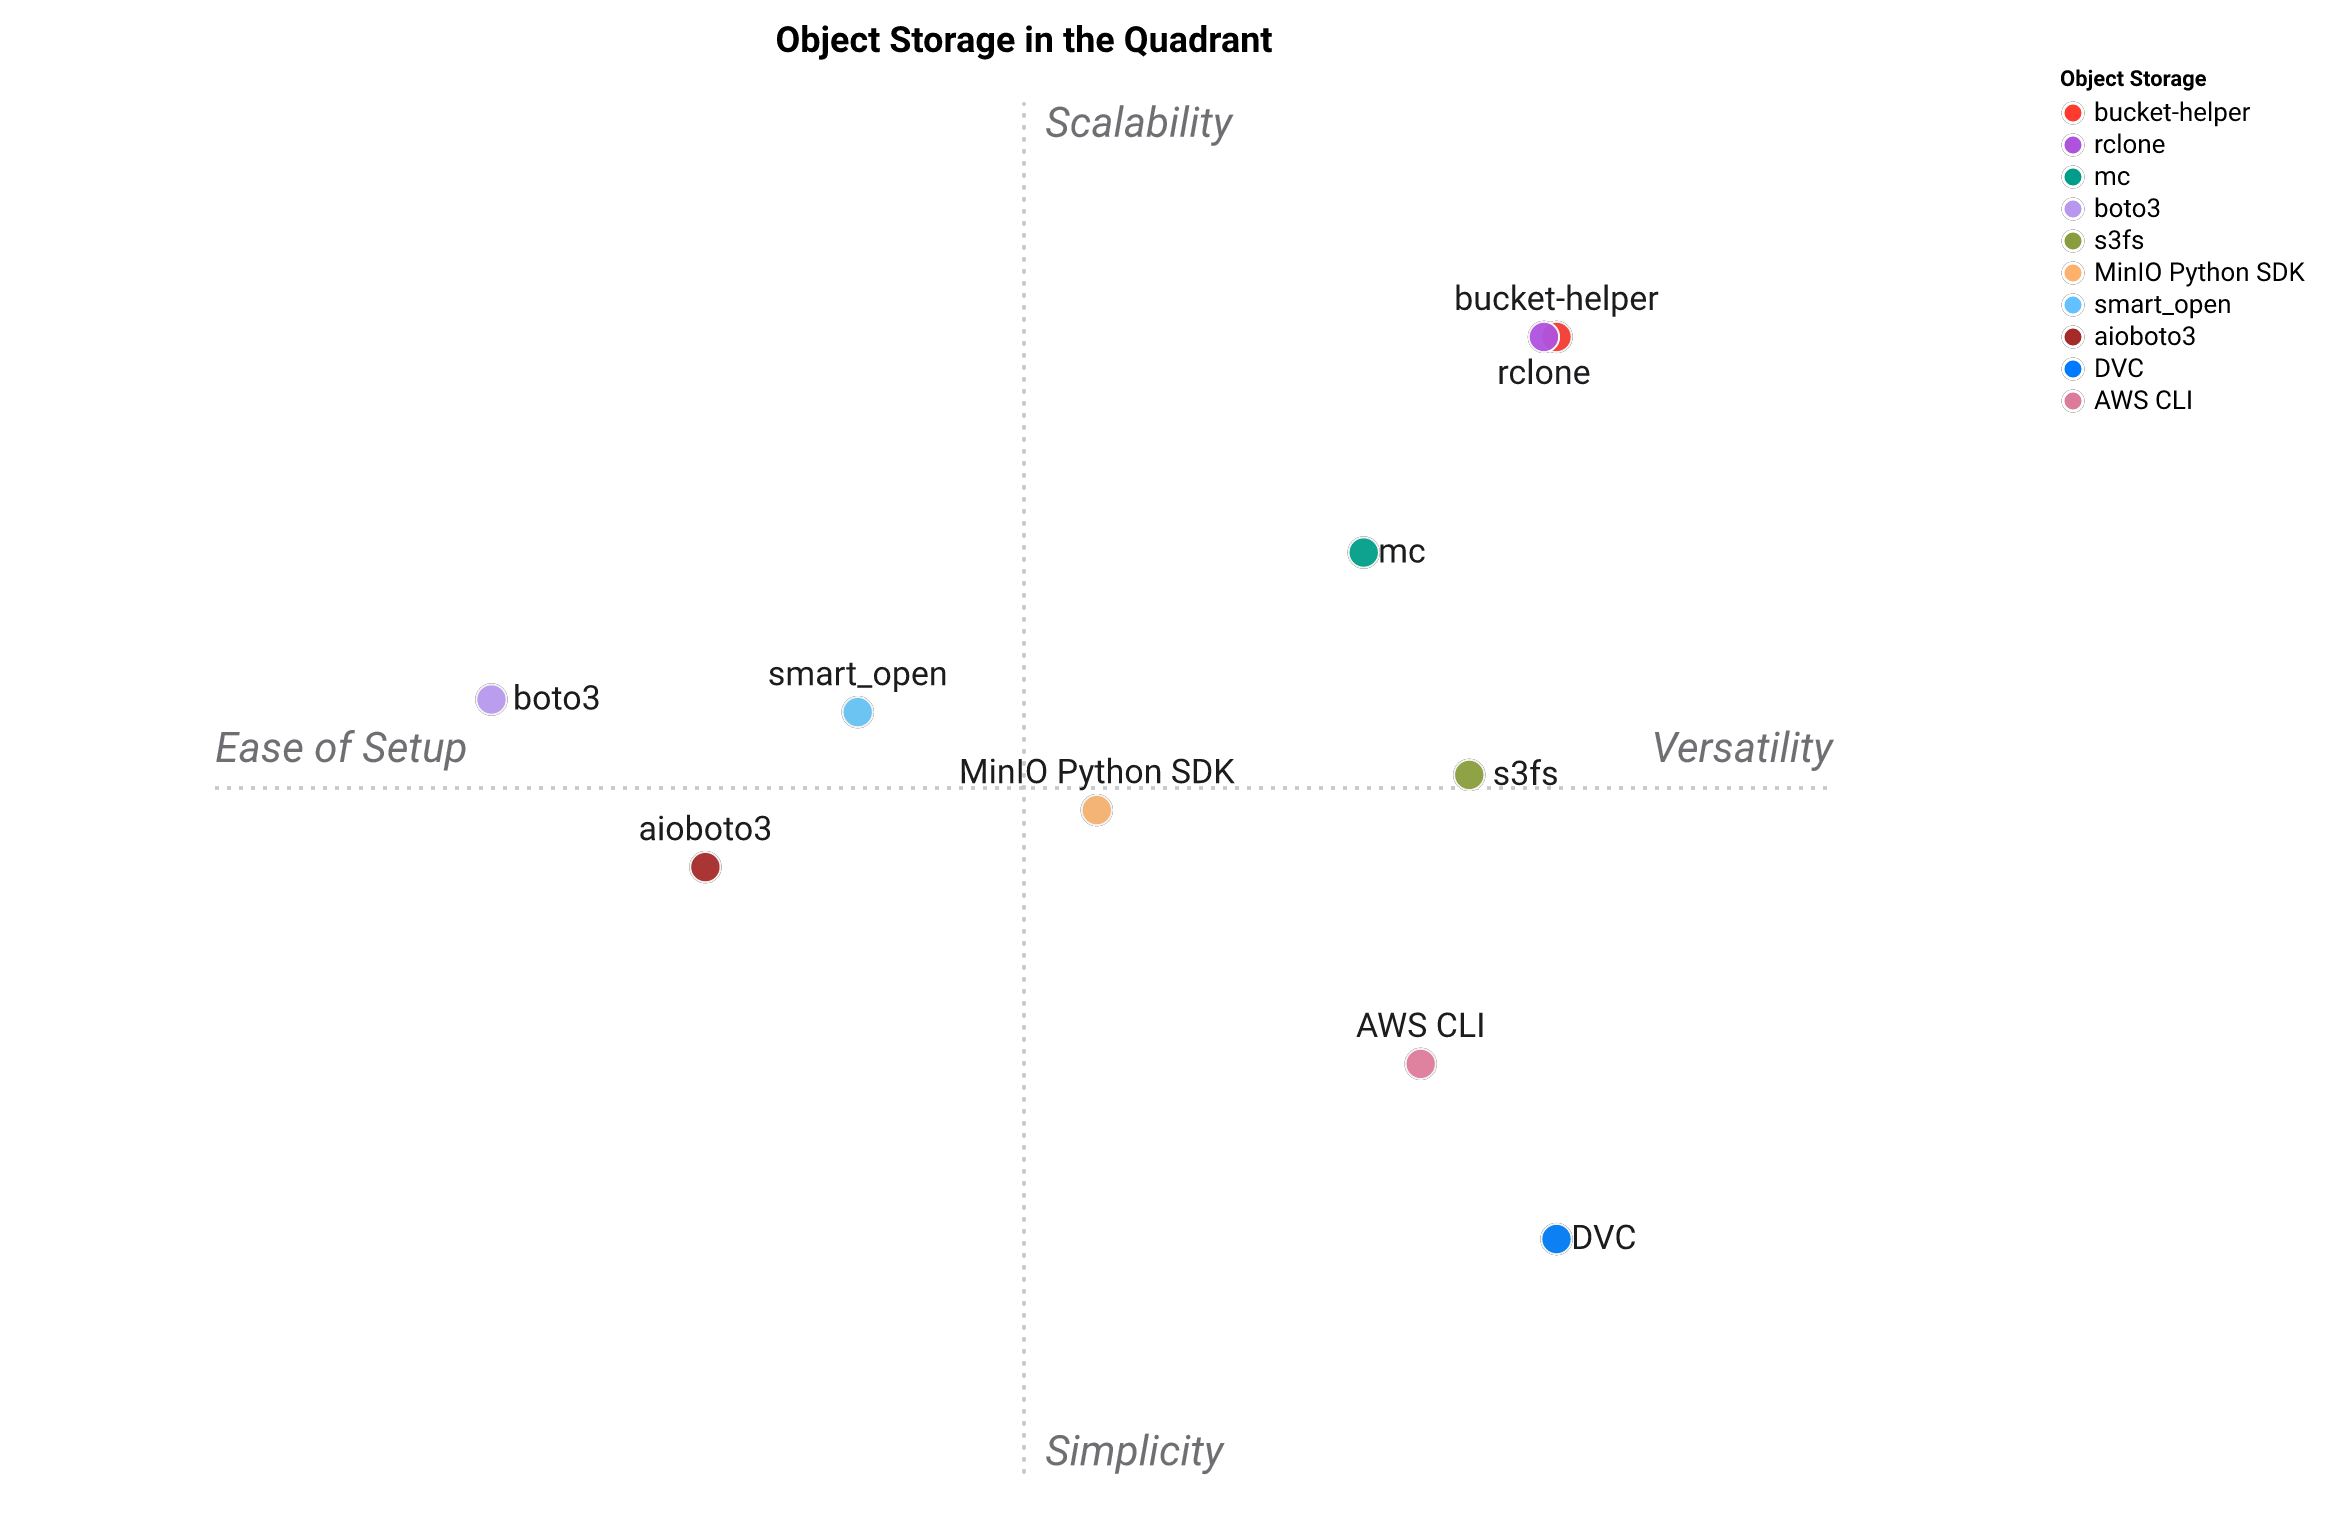
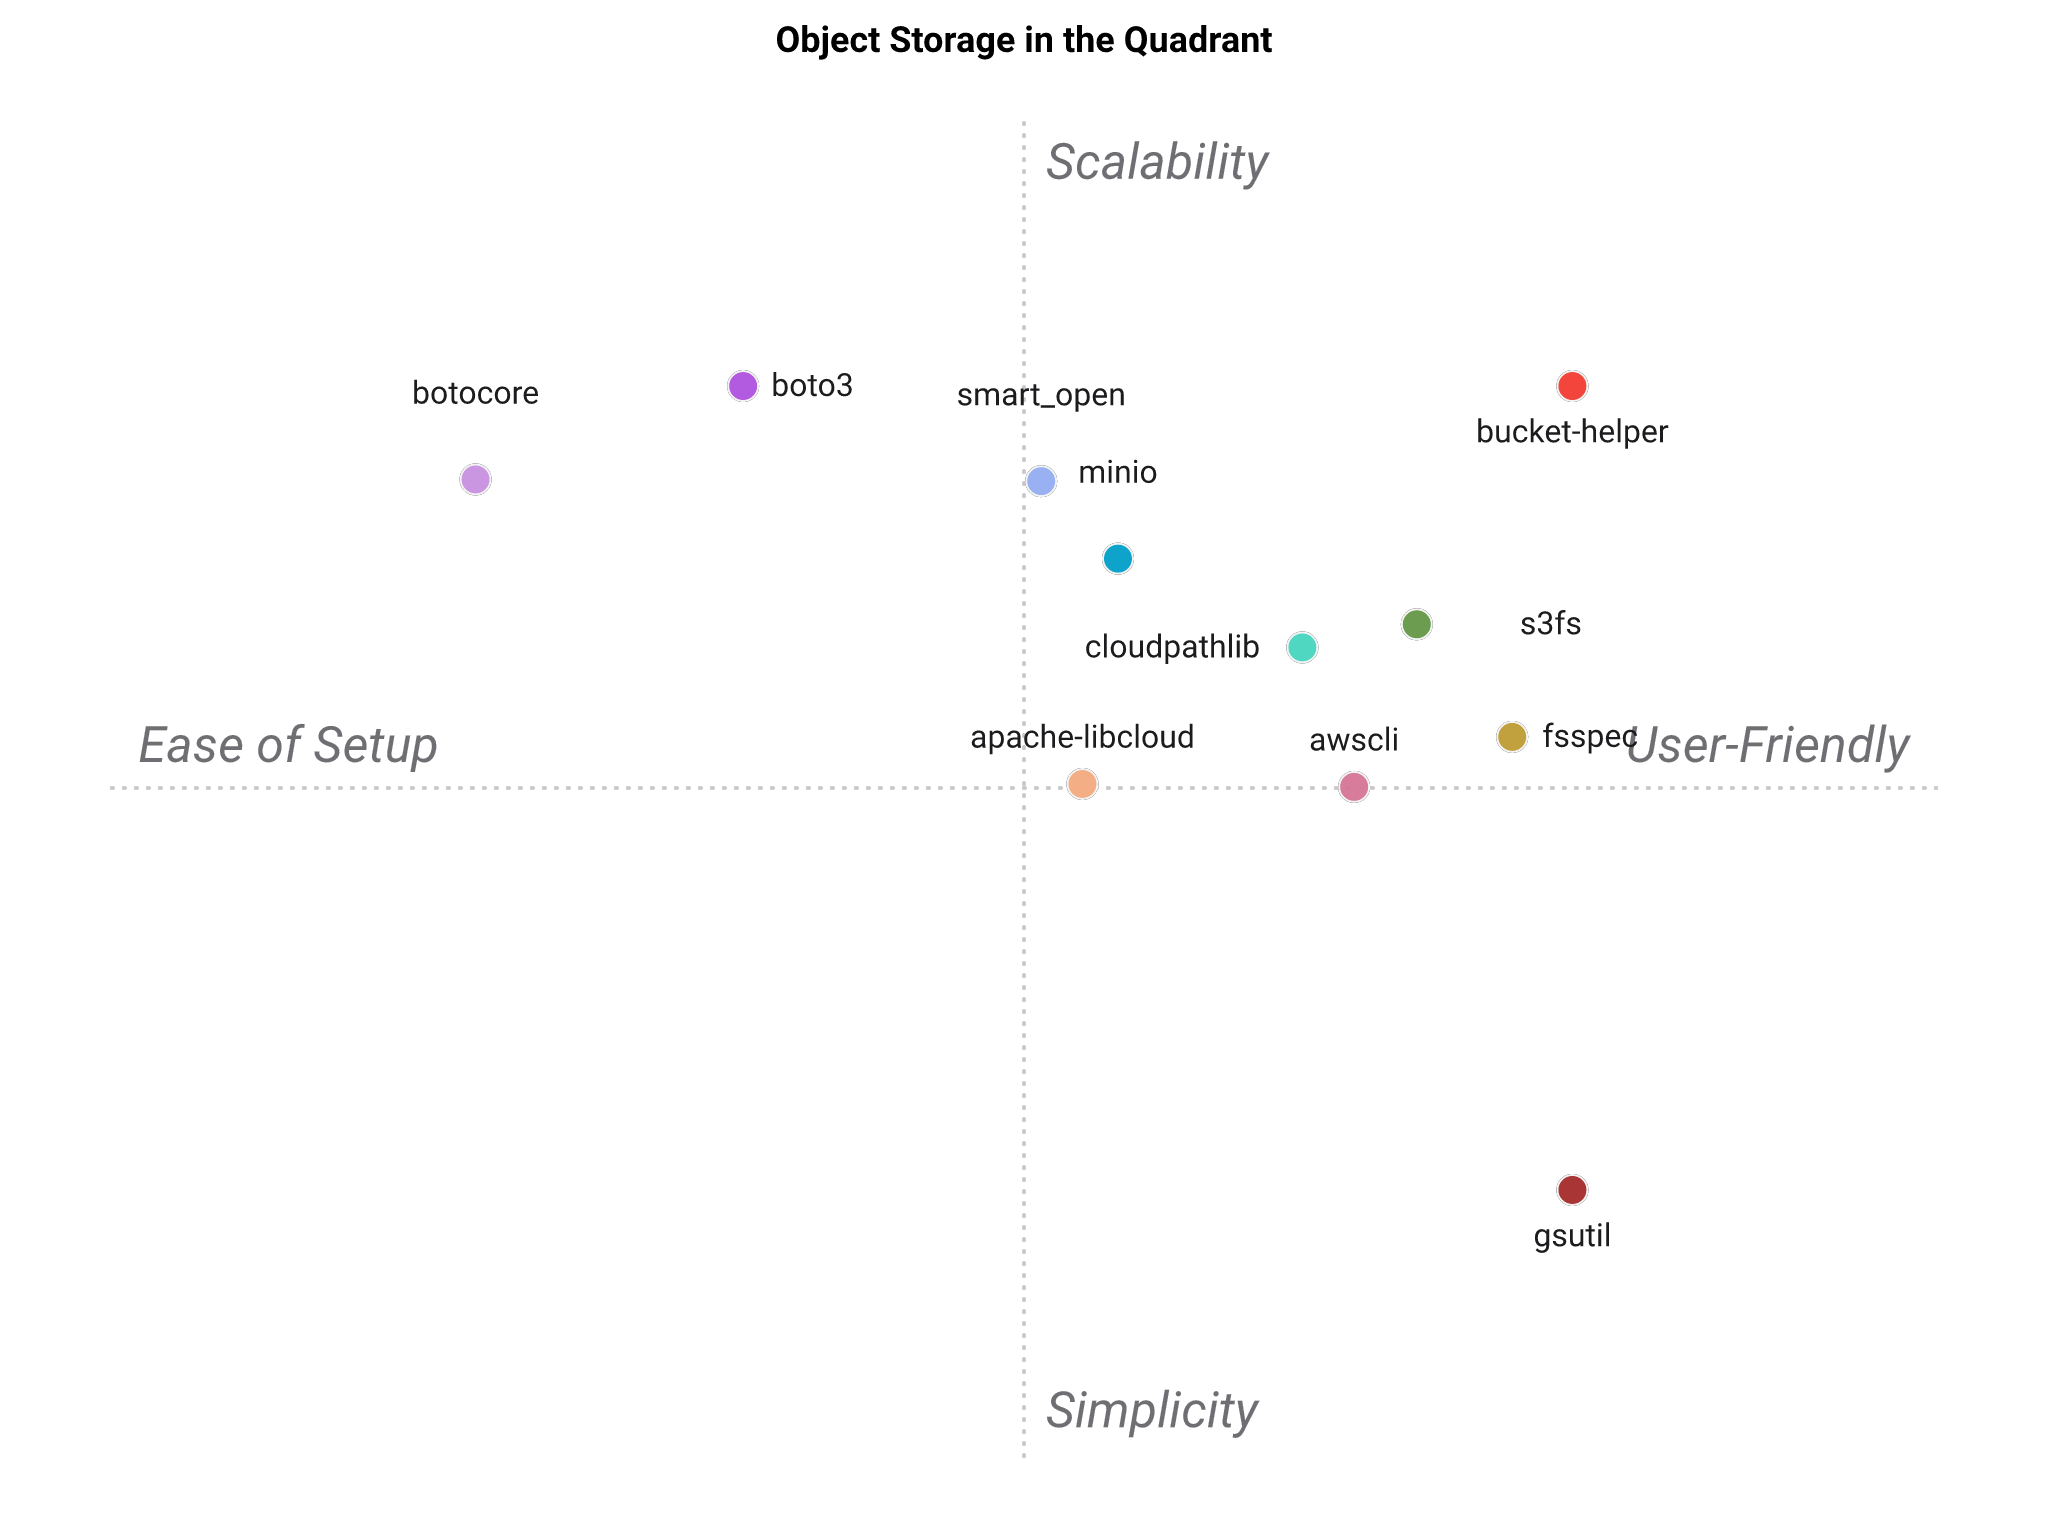
docs(landscape): name the real S3 stack; regenerated positioning map
Re-point the comparison at the actual S3 ecosystem (boto3, botocore, minio,
s3fs, cloudpathlib, smart_open, apache-libcloud, awscli, gsutil, fsspec) and add
an "AI-pipeline ergonomics" criterion. Regenerate the figure via standpoint 0.6.0
and reconcile the positioning / when-to-pick prose with the named tools.

diff --git a/PAYSAGE.md b/PAYSAGE.md
@@ -10,25 +10,26 @@ objet pour les pipelines d'IA et de données (identifiants par fichier de
 configuration, upload / download / list / exists / delete, support du
 mode chemin pour MinIO / R2 / B2 / Spaces / Wasabi, clés temporaires de
 stage-and-share à nettoyage automatique). Une bibliothèque optimisée
-pour un tout autre usage (par ex. un SDK bas niveau, du versionnage de
-données façon DVC) n'est pas pénalisée — la note reflète seulement
+pour un tout autre usage (par ex. un SDK bas niveau, une CLI native
+d'un fournisseur) n'est pas pénalisée — la note reflète seulement
 l'adéquation à *ce* créneau.
 
 ## En un coup d'œil
 
 <!-- TABLE:START -->
-| Stockage objet | Multi-fournisseur | Identifiants par fichier de config | CRUD simple | Clés temporaires en attente-partage | URL compatibles S3 | Multi-surface | Installation légère |
-| --- | :---: | :---: | :---: | :---: | :---: | :---: | :---: |
-| **bucket-helper** | ⭐⭐⭐⭐⭐ | ⭐⭐⭐⭐⭐ | ⭐⭐⭐⭐⭐ | ⭐⭐⭐⭐⭐ | ⭐⭐⭐⭐⭐ | ⭐⭐⭐⭐⭐ | ⭐⭐⭐⭐⭐ |
-| boto3 | ⭐⭐⭐⭐⭐ | ⭐⭐ | ⭐⭐ | ⭐ | ⭐⭐ | ⭐ | ⭐⭐⭐⭐⭐ |
-| aioboto3 | ⭐⭐⭐⭐⭐ | ⭐⭐ | ⭐⭐ | ⭐ | ⭐⭐ | ⭐ | ⭐⭐⭐⭐ |
-| s3fs | ⭐⭐⭐⭐ | ⭐⭐ | ⭐⭐⭐⭐ | ⭐⭐ | ⭐⭐⭐ | ⭐⭐ | ⭐⭐⭐⭐ |
-| MinIO Python SDK | ⭐⭐⭐ | ⭐⭐ | ⭐⭐⭐⭐ | ⭐ | ⭐⭐⭐ | ⭐ | ⭐⭐⭐⭐⭐ |
-| AWS CLI | ⭐⭐⭐⭐ | ⭐⭐ | ⭐⭐⭐⭐ | ⭐ | ⭐⭐ | ⭐⭐ | ⭐⭐⭐ |
-| mc | ⭐⭐⭐⭐ | ⭐⭐⭐ | ⭐⭐⭐⭐⭐ | ⭐ | ⭐⭐⭐ | ⭐⭐ | ⭐⭐⭐⭐⭐ |
-| rclone | ⭐⭐⭐⭐⭐ | ⭐⭐⭐⭐ | ⭐⭐⭐⭐⭐ | ⭐ | ⭐⭐⭐ | ⭐⭐⭐ | ⭐⭐⭐⭐⭐ |
-| DVC | ⭐⭐⭐ | ⭐⭐⭐ | ⭐⭐ | ⭐ | ⭐⭐ | ⭐⭐ | ⭐⭐⭐ |
-| smart_open | ⭐⭐⭐⭐ | ⭐⭐ | ⭐⭐⭐ | ⭐ | ⭐⭐⭐ | ⭐ | ⭐⭐⭐⭐⭐ |
+| Stockage objet | Multi-fournisseur S3 | Identifiants par fichier de config | CRUD simple | Clés temporaires en attente-partage | URL compatibles S3 | Multi-surface | Installation légère | Ergonomie pipeline IA |
+| --- | :---: | :---: | :---: | :---: | :---: | :---: | :---: | :---: |
+| **bucket-helper** | ⭐⭐⭐⭐⭐ | ⭐⭐⭐⭐⭐ | ⭐⭐⭐⭐⭐ | ⭐⭐⭐⭐⭐ | ⭐⭐⭐⭐⭐ | ⭐⭐⭐⭐⭐ | ⭐⭐⭐⭐⭐ | ⭐⭐⭐⭐⭐ |
+| boto3 | ⭐⭐⭐⭐⭐ | ⭐⭐ | ⭐⭐ | ⭐ | ⭐⭐⭐ | ⭐ | ⭐⭐⭐⭐⭐ | ⭐⭐⭐ |
+| botocore | ⭐⭐⭐⭐⭐ | ⭐⭐ | ⭐ | ⭐ | ⭐⭐ | ⭐ | ⭐⭐⭐⭐⭐ | ⭐⭐ |
+| minio | ⭐⭐⭐⭐ | ⭐⭐ | ⭐⭐⭐⭐ | ⭐ | ⭐⭐⭐ | ⭐ | ⭐⭐⭐⭐⭐ | ⭐⭐⭐ |
+| s3fs | ⭐⭐⭐⭐ | ⭐⭐ | ⭐⭐⭐⭐ | ⭐⭐ | ⭐⭐ | ⭐⭐ | ⭐⭐⭐⭐ | ⭐⭐⭐⭐ |
+| cloudpathlib | ⭐⭐⭐⭐ | ⭐⭐ | ⭐⭐⭐⭐ | ⭐⭐ | ⭐⭐ | ⭐ | ⭐⭐⭐⭐ | ⭐⭐⭐⭐ |
+| smart_open | ⭐⭐⭐⭐ | ⭐⭐ | ⭐⭐⭐ | ⭐ | ⭐⭐⭐ | ⭐ | ⭐⭐⭐⭐⭐ | ⭐⭐⭐⭐ |
+| apache-libcloud | ⭐⭐⭐⭐ | ⭐⭐ | ⭐⭐⭐⭐ | ⭐ | ⭐⭐ | ⭐ | ⭐⭐⭐⭐ | ⭐⭐ |
+| awscli | ⭐⭐⭐⭐ | ⭐⭐ | ⭐⭐⭐⭐ | ⭐ | ⭐⭐⭐ | ⭐⭐ | ⭐⭐⭐ | ⭐⭐ |
+| gsutil | ⭐⭐ | ⭐⭐ | ⭐⭐⭐⭐ | ⭐ | ⭐⭐ | ⭐⭐ | ⭐⭐ | ⭐⭐ |
+| fsspec | ⭐⭐⭐ | ⭐⭐ | ⭐⭐⭐⭐ | ⭐⭐ | ⭐⭐ | ⭐⭐ | ⭐⭐⭐⭐ | ⭐⭐⭐⭐ |
 <!-- TABLE:END -->
 
 ## Carte de positionnement
@@ -38,7 +39,7 @@ Représentation 2D du tableau ci-dessus.
 
 ![Carte de positionnement](https://raw.githubusercontent.com/warith-harchaoui/bucket-helper/main/assets/paysage.png)
 
-La carte est un résumé en 2D des 7 critères : à lire comme une forme, pas comme un classement. « bucket-helper » se situe dans le coin en haut à droite. Les axes se lisent **Horizontal — Flexibilité ↔ Simplicité** et **Vertical — Personnalisation ↔ Scalabilité**.
+La carte est un résumé en 2D des 8 critères : à lire comme une forme, pas comme un classement. « bucket-helper » se situe dans le coin en haut à droite. Les axes se lisent **Horizontal — Économie ↔ Flexibilité** et **Vertical — Simplicité ↔ Intelligence**.
 <!-- FIGURE:END -->
 
 ## Positionnement
@@ -81,17 +82,20 @@ multi-fournisseur et constructeur d'URL ne s'appliquent pas.
   où le nettoyage distant automatique compte ; quand on utilise déjà
   `os-helper` / `sftp-helper` et qu'on veut la même forme pour le
   stockage objet.
-- **`boto3`** — on a besoin d'une fonctionnalité boto3 que nous
-  n'enveloppons pas (URL présignées, chiffrement côté serveur,
-  copie multipart, SelectObjectContent, …).
+- **`boto3` / `botocore`** — on a besoin d'une fonctionnalité de SDK bas
+  niveau que nous n'enveloppons pas (URL présignées, chiffrement côté
+  serveur, copie multipart, SelectObjectContent, …) ; `botocore` quand
+  on veut la couche de transport nue sous `boto3`.
 - **`s3fs` / `fsspec`** — on veut un système de fichiers natif `fsspec`
   pour que `pandas` / `dask` / `polars` lisent directement depuis
   `s3://…`.
-- **`rclone` / `mc`** — travail DevOps / sysadmin : synchronisations en
-  masse, copies inter-clouds, sauvegardes pilotées par cron. Meilleure
-  ergonomie que n'importe quelle bibliothèque Python pour cette
-  tâche précise.
-- **`DVC`** — on veut du *versionnage de données*, pas seulement du
-  stockage objet.
+- **`awscli` / `gsutil`** — travail DevOps / sysadmin depuis le shell :
+  synchronisations en masse, copies scriptées, sauvegardes pilotées par
+  cron. Meilleure ergonomie que n'importe quelle bibliothèque Python
+  pour cette tâche précise.
+- **`minio` / `cloudpathlib` / `apache-libcloud`** — un seul usage
+  étroit : le SDK MinIO du fournisseur, des chemins cloud façon
+  `pathlib.Path`, ou une abstraction multi-cloud large qui dépasse
+  largement S3.
 - **`smart_open`** — on a seulement besoin de `open("s3://…")` et rien
   d'autre.

diff --git a/LANDSCAPE.md b/LANDSCAPE.md
@@ -9,24 +9,25 @@ everyday object-storage plumbing for AI + data pipelines (config-file
 credentials, upload / download / list / exists / delete, path-style
 MinIO / R2 / B2 / Spaces / Wasabi support, stage-and-share temp keys
 with auto-cleanup). A library optimised for a very different job (e.g.
-low-level SDK, DVC-style data versioning) is not penalised — the score
+low-level SDK, provider-native CLI) is not penalised — the score
 just reflects fit to *this* niche.
 
 ## At a glance
 
 <!-- TABLE:START -->
-| Object Storage | Multi-provider | Config-file credentials | Simple CRUD | Stage-and-share temp keys | S3-compatible URLs | Multi-surface | Light install |
-| --- | :---: | :---: | :---: | :---: | :---: | :---: | :---: |
-| **bucket-helper** | ⭐⭐⭐⭐⭐ | ⭐⭐⭐⭐⭐ | ⭐⭐⭐⭐⭐ | ⭐⭐⭐⭐⭐ | ⭐⭐⭐⭐⭐ | ⭐⭐⭐⭐⭐ | ⭐⭐⭐⭐⭐ |
-| boto3 | ⭐⭐⭐⭐⭐ | ⭐⭐ | ⭐⭐ | ⭐ | ⭐⭐ | ⭐ | ⭐⭐⭐⭐⭐ |
-| aioboto3 | ⭐⭐⭐⭐⭐ | ⭐⭐ | ⭐⭐ | ⭐ | ⭐⭐ | ⭐ | ⭐⭐⭐⭐ |
-| s3fs | ⭐⭐⭐⭐ | ⭐⭐ | ⭐⭐⭐⭐ | ⭐⭐ | ⭐⭐⭐ | ⭐⭐ | ⭐⭐⭐⭐ |
-| MinIO Python SDK | ⭐⭐⭐ | ⭐⭐ | ⭐⭐⭐⭐ | ⭐ | ⭐⭐⭐ | ⭐ | ⭐⭐⭐⭐⭐ |
-| AWS CLI | ⭐⭐⭐⭐ | ⭐⭐ | ⭐⭐⭐⭐ | ⭐ | ⭐⭐ | ⭐⭐ | ⭐⭐⭐ |
-| mc | ⭐⭐⭐⭐ | ⭐⭐⭐ | ⭐⭐⭐⭐⭐ | ⭐ | ⭐⭐⭐ | ⭐⭐ | ⭐⭐⭐⭐⭐ |
-| rclone | ⭐⭐⭐⭐⭐ | ⭐⭐⭐⭐ | ⭐⭐⭐⭐⭐ | ⭐ | ⭐⭐⭐ | ⭐⭐⭐ | ⭐⭐⭐⭐⭐ |
-| DVC | ⭐⭐⭐ | ⭐⭐⭐ | ⭐⭐ | ⭐ | ⭐⭐ | ⭐⭐ | ⭐⭐⭐ |
-| smart_open | ⭐⭐⭐⭐ | ⭐⭐ | ⭐⭐⭐ | ⭐ | ⭐⭐⭐ | ⭐ | ⭐⭐⭐⭐⭐ |
+| Object Storage | Multi-provider S3 | Config-file credentials | Simple CRUD | Stage-and-share temp keys | S3-compatible URLs | Multi-surface | Light install | AI-pipeline ergonomics |
+| --- | :---: | :---: | :---: | :---: | :---: | :---: | :---: | :---: |
+| **bucket-helper** | ⭐⭐⭐⭐⭐ | ⭐⭐⭐⭐⭐ | ⭐⭐⭐⭐⭐ | ⭐⭐⭐⭐⭐ | ⭐⭐⭐⭐⭐ | ⭐⭐⭐⭐⭐ | ⭐⭐⭐⭐⭐ | ⭐⭐⭐⭐⭐ |
+| boto3 | ⭐⭐⭐⭐⭐ | ⭐⭐ | ⭐⭐ | ⭐ | ⭐⭐⭐ | ⭐ | ⭐⭐⭐⭐⭐ | ⭐⭐⭐ |
+| botocore | ⭐⭐⭐⭐⭐ | ⭐⭐ | ⭐ | ⭐ | ⭐⭐ | ⭐ | ⭐⭐⭐⭐⭐ | ⭐⭐ |
+| minio | ⭐⭐⭐⭐ | ⭐⭐ | ⭐⭐⭐⭐ | ⭐ | ⭐⭐⭐ | ⭐ | ⭐⭐⭐⭐⭐ | ⭐⭐⭐ |
+| s3fs | ⭐⭐⭐⭐ | ⭐⭐ | ⭐⭐⭐⭐ | ⭐⭐ | ⭐⭐ | ⭐⭐ | ⭐⭐⭐⭐ | ⭐⭐⭐⭐ |
+| cloudpathlib | ⭐⭐⭐⭐ | ⭐⭐ | ⭐⭐⭐⭐ | ⭐⭐ | ⭐⭐ | ⭐ | ⭐⭐⭐⭐ | ⭐⭐⭐⭐ |
+| smart_open | ⭐⭐⭐⭐ | ⭐⭐ | ⭐⭐⭐ | ⭐ | ⭐⭐⭐ | ⭐ | ⭐⭐⭐⭐⭐ | ⭐⭐⭐⭐ |
+| apache-libcloud | ⭐⭐⭐⭐ | ⭐⭐ | ⭐⭐⭐⭐ | ⭐ | ⭐⭐ | ⭐ | ⭐⭐⭐⭐ | ⭐⭐ |
+| awscli | ⭐⭐⭐⭐ | ⭐⭐ | ⭐⭐⭐⭐ | ⭐ | ⭐⭐⭐ | ⭐⭐ | ⭐⭐⭐ | ⭐⭐ |
+| gsutil | ⭐⭐ | ⭐⭐ | ⭐⭐⭐⭐ | ⭐ | ⭐⭐ | ⭐⭐ | ⭐⭐ | ⭐⭐ |
+| fsspec | ⭐⭐⭐ | ⭐⭐ | ⭐⭐⭐⭐ | ⭐⭐ | ⭐⭐ | ⭐⭐ | ⭐⭐⭐⭐ | ⭐⭐⭐⭐ |
 <!-- TABLE:END -->
 
 ## Positioning map
@@ -36,7 +37,7 @@ just reflects fit to *this* niche.
 
 ![Positioning map](https://raw.githubusercontent.com/warith-harchaoui/bucket-helper/main/assets/landscape.png)
 
-The map is a 2-D summary of the seven criteria, so read it as a shape, not a scoreboard. `bucket-helper` is at the top-right corner. The axes read **Horizontal — Ease of Setup ↔ Versatility** and **Vertical — Simplicity ↔ Scalability**.
+The map is a 2-D summary of the eight criteria, so read it as a shape, not a scoreboard. `bucket-helper` is at the top-right corner. The axes read **Horizontal — Ease of Setup ↔ User-Friendly** and **Vertical — Simplicity ↔ Scalability**.
 <!-- FIGURE:END -->
 
 ## Positioning
@@ -75,12 +76,16 @@ apply.
   where automatic remote cleanup matters; when you already use
   `os-helper` / `sftp-helper` and want the same shape for object
   storage.
-- **`boto3`** — you need a boto3 feature we do not wrap (presigned URLs,
-  server-side encryption, multipart-copy, SelectObjectContent, …).
+- **`boto3` / `botocore`** — you need a low-level SDK feature we do not
+  wrap (presigned URLs, server-side encryption, multipart-copy,
+  SelectObjectContent, …); `botocore` when you want the bare transport
+  layer under `boto3`.
 - **`s3fs` / `fsspec`** — you want an `fsspec`-native filesystem so
   `pandas` / `dask` / `polars` can read directly from `s3://…`.
-- **`rclone` / `mc`** — DevOps / sysadmin work: bulk syncs, cross-cloud
-  copies, cron-driven backups. Better ergonomics than any Python
-  library for that particular job.
-- **`DVC`** — you want *data versioning*, not just object storage.
+- **`awscli` / `gsutil`** — DevOps / sysadmin work from the shell: bulk
+  syncs, scripted copies, cron-driven backups. Better ergonomics than
+  any Python library for that particular job.
+- **`minio` / `cloudpathlib` / `apache-libcloud`** — a single narrow
+  fit: the vendor's own MinIO SDK, `pathlib.Path`-style cloud paths, or
+  a broad multi-cloud abstraction that reaches well beyond S3.
 - **`smart_open`** — you only need `open("s3://…")` and nothing else.
